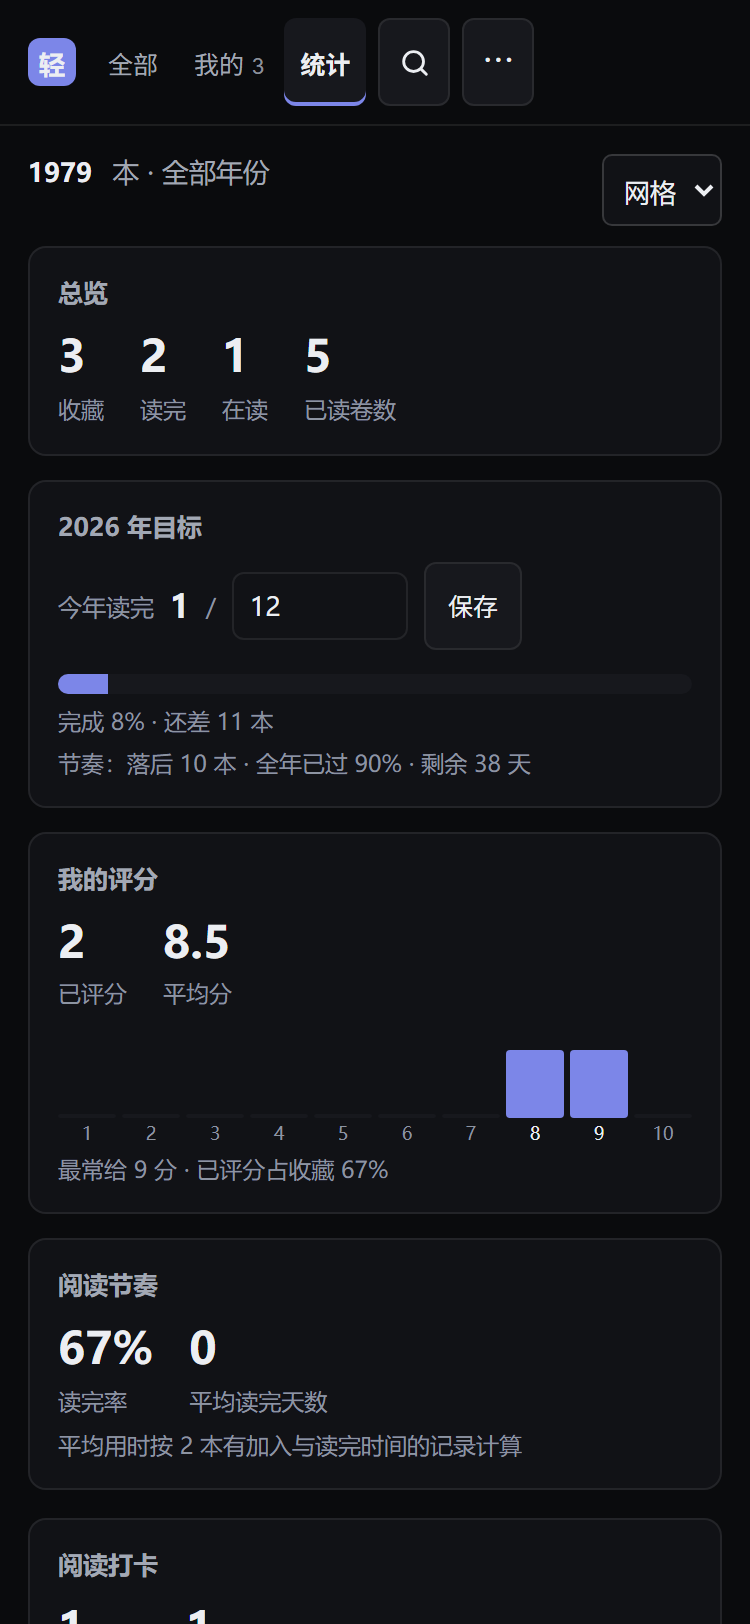
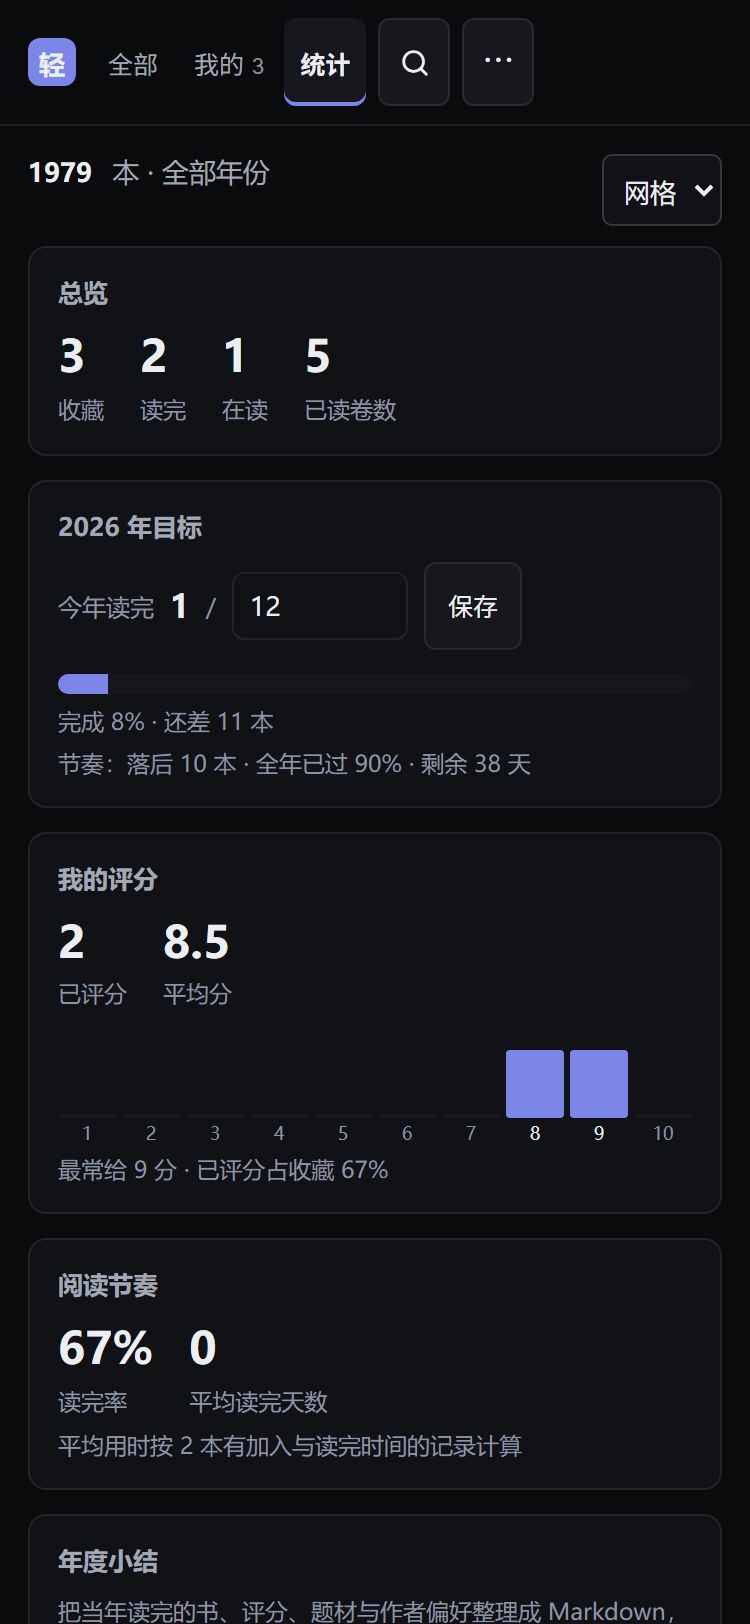
improve: 统计页新增年度小结 Markdown 导出（第 20 轮）
参考 Goodreads Year in Books 的年度回顾形态
- yearSummary() 汇总读完/卷数/评分/作者/题材与书目
- 统计页一键导出 轻小说年度小结-YYYY.md
- 版本 1.7.2，SW 缓存 v23，verify 177/177

Changed region(s): [[0.0613, 0.9544, 0.8893, 1.0]]

diff --git a/index.html b/index.html
@@ -18,7 +18,7 @@
 <link rel="preconnect" href="https://bgmimg.anibt.net" crossorigin>
 <link rel="dns-prefetch" href="https://bgmimg.anibt.net">
 <meta name="theme-color" content="#0a0b0d">
-<meta name="version" content="1.7.1">
+<meta name="version" content="1.7.2">
 <style>
   :root {
     --bg: #0d0f14;
@@ -2500,6 +2500,7 @@
     font-weight: 600;
     color: var(--muted);
   }
+  .stat-action { margin-top: 10px; }
   .stat-nums { display: flex; gap: 18px; flex-wrap: wrap; }
   .stat-num b { display: block; font-size: 22px; line-height: 1.25; }
   .stat-num span { font-size: 11.5px; color: var(--muted-2); }
@@ -2873,7 +2874,7 @@
 </main>
 
 <footer class="wrap">
-  数据来源 <a href="https://bgm.tv" target="_blank" rel="noreferrer">Bangumi 番组计划</a> · 通过镜像接口生成 · 封面版权归原作者所有 · 数据更新于 <span id="dataUpdated" title="Bangumi 数据快照生成时间">—</span> · <span title="项目版本">v1.7.1</span>
+  数据来源 <a href="https://bgm.tv" target="_blank" rel="noreferrer">Bangumi 番组计划</a> · 通过镜像接口生成 · 封面版权归原作者所有 · 数据更新于 <span id="dataUpdated" title="Bangumi 数据快照生成时间">—</span> · <span title="项目版本">v1.7.2</span>
 </footer>
 
 <div class="modal" id="modal" hidden>
@@ -4843,6 +4844,74 @@
     }).join('') + '</div>';
   }
 
+  // 年度小结：把某年读完的书、评分与偏好整理成可分享的 Markdown（参考 Goodreads Year in Books）
+  function yearSummary(year) {
+    var finished = [];
+    var rated = [];
+    var volSum = 0;
+    var genres = {};
+    var authors = {};
+    Object.keys(myMap).forEach(function (id) {
+      var e = myMap[id];
+      var x = byId.get(id);
+      if (!e || !x) return;
+      var y = e.f ? new Date(e.f).getFullYear() : 0;
+      if (y !== year) return;
+      finished.push({ x: x, e: e });
+      volSum += Math.max(0, Number(e.vol) || 0);
+      if (e.r) rated.push(e.r);
+      (x.tg || []).forEach(function (g) {
+        var label = GENRE_LABEL[g];
+        if (label) genres[label] = (genres[label] || 0) + 1;
+      });
+      String(x.au || '').split(/[\/、,，&]/).forEach(function (name) {
+        var key = name.trim();
+        if (key) authors[key] = (authors[key] || 0) + 1;
+      });
+    });
+    finished.sort(function (a, b) { return (b.e.f || 0) - (a.e.f || 0); });
+    var topOf = function (obj, n) {
+      return Object.keys(obj).map(function (k) { return [k, obj[k]]; })
+        .sort(function (a, b) { return b[1] - a[1]; }).slice(0, n);
+    };
+    var avg = rated.length ? (rated.reduce(function (s, n) { return s + n; }, 0) / rated.length) : 0;
+    var topGenres = topOf(genres, 5);
+    var topAuthors = topOf(authors, 5);
+    var lines = [
+      '# ' + year + ' 年阅读小结',
+      '',
+      '- 读完：' + finished.length + ' 本',
+      '- 已读卷数：' + volSum + ' 卷',
+      '- 平均评分：' + (avg ? avg.toFixed(1) + ' / 10（' + rated.length + ' 本）' : '—'),
+      '- 最常读作者：' + (topAuthors.length ? topAuthors[0][0] + '（' + topAuthors[0][1] + ' 本）' : '—'),
+      '',
+      '## 题材偏好',
+      '',
+    ];
+    if (topGenres.length) {
+      topGenres.forEach(function (g, i) { lines.push((i + 1) + '. ' + g[0] + '（' + g[1] + ' 本）'); });
+    } else {
+      lines.push('暂无题材数据');
+    }
+    lines.push('', '## 读完书目', '');
+    if (finished.length) {
+      finished.slice(0, 30).forEach(function (o) {
+        var title = o.x.cn || o.x.n || '未知书目';
+        var parts = ['- 《' + title + '》'];
+        if (o.e.r) parts.push('★ ' + o.e.r + '/10');
+        if (o.e.vol) parts.push('读到第 ' + o.e.vol + (o.x.v ? ' / ' + o.x.v : '') + ' 卷');
+        if (o.e.f) parts.push(fmtDate(o.e.f));
+        lines.push(parts.join(' · '));
+      });
+      if (finished.length > 30) lines.push('', '…… 另有 ' + (finished.length - 30) + ' 本未列出');
+    } else {
+      lines.push('这一年还没有读完的书');
+    }
+    lines.push('', '> 由轻小说库导出 · ' + new Date().toISOString().slice(0, 10));
+    return lines.join('\n');
+  }
+  window.__lnYearSummary = yearSummary;
+
   function renderStatsPage() {
     var panel = $('statsPanel');
     var year = new Date().getFullYear();
@@ -4996,6 +5065,9 @@
         '</div><div class="goal-meta">' + (pace.sampled
           ? '平均用时按 ' + pace.sampled + ' 本有加入与读完时间的记录计算'
           : '记录加入与读完时间后可统计平均用时') + '</div></div>' +
+        '<div class="stat-card"><h3>年度小结</h3>' +
+          '<div class="goal-meta">把当年读完的书、评分、题材与作者偏好整理成 Markdown，便于分享或存档。</div>' +
+          '<button class="btn stat-action" type="button" data-stats="exportYear">导出 Markdown</button></div>' +
       '</div>' +
       '<div class="stats-grid">' +
         '<div class="stat-card"><h3>阅读打卡</h3><div class="stat-nums">' +
@@ -5033,6 +5105,12 @@
     var act = e.target.closest('[data-stats]');
     if (!act) return;
     if (act.dataset.stats === 'browse') { setTab('all'); return; }
+    if (act.dataset.stats === 'exportYear') {
+      var y = new Date().getFullYear();
+      download('轻小说年度小结-' + y + '.md', yearSummary(y), 'text/markdown;charset=utf-8');
+      toast('年度小结已导出');
+      return;
+    }
     if (act.dataset.stats === 'goal') {
       var input = $('goalInput');
       var target = Math.max(0, Math.min(999, Math.round(Number(input && input.value) || 0)));

diff --git a/sw.js b/sw.js
@@ -1,5 +1,5 @@
 // 应用壳离线缓存：首页网络优先并带超时回退，其余同源资源缓存优先、后台更新
-var CACHE = 'yuc-ln-shell-v22';
+var CACHE = 'yuc-ln-shell-v23';
 var SHELL = ['./', './index.html', './manifest.webmanifest', './icon.svg', './icons/icon-180.png', './icons/icon-192.png', './icons/icon-512.png', './data/light-novels.js'];
 var IMG_LIMIT = 400;
 

diff --git a/README.md b/README.md
@@ -2,7 +2,9 @@
 
 本地优先的轻小说浏览与阅读记录 PWA。内置 Bangumi「轻小说」标签条目 4007 条，无账号、无后端。
 
-状态：**v1.7.1 已完成**（数据、页面、书评、统计、云同步、PWA、自动化验收 175 项）
+状态：**v1.7.2 已完成**（数据、页面、书评、统计、云同步、PWA、自动化验收 177 项）
+
+v1.7.2：阅读统计新增「年度小结」，一键把当年读完、评分、题材与作者偏好导出为 Markdown。
 
 v1.7.1：高级搜索新增 `评:` 字段，可在「我的阅读」中按短评与笔记正文检索。
 
@@ -80,7 +82,7 @@ npm run clean-series  # 用本地缓存离线重算子卷
 npm run check-data    # 数据校验
 npm run build-pinyin  # 离线重算拼音首字母
 npm run test-merge    # 同步合并逻辑单元测试
-npm run verify        # 无头浏览器自动化验收（175 项）
+npm run verify        # 无头浏览器自动化验收（177 项）
 ```
 
 `npm run verify` 会在 `screenshots/` 输出桌面与移动端截图。
